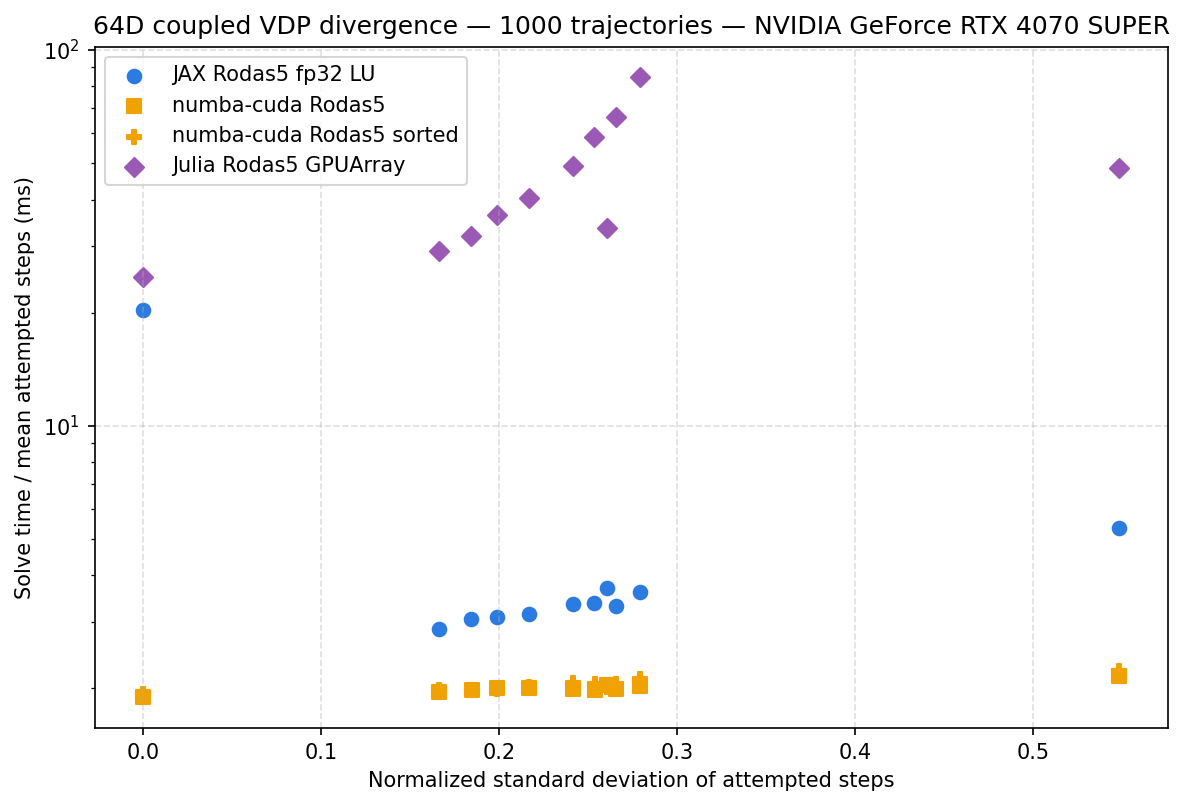
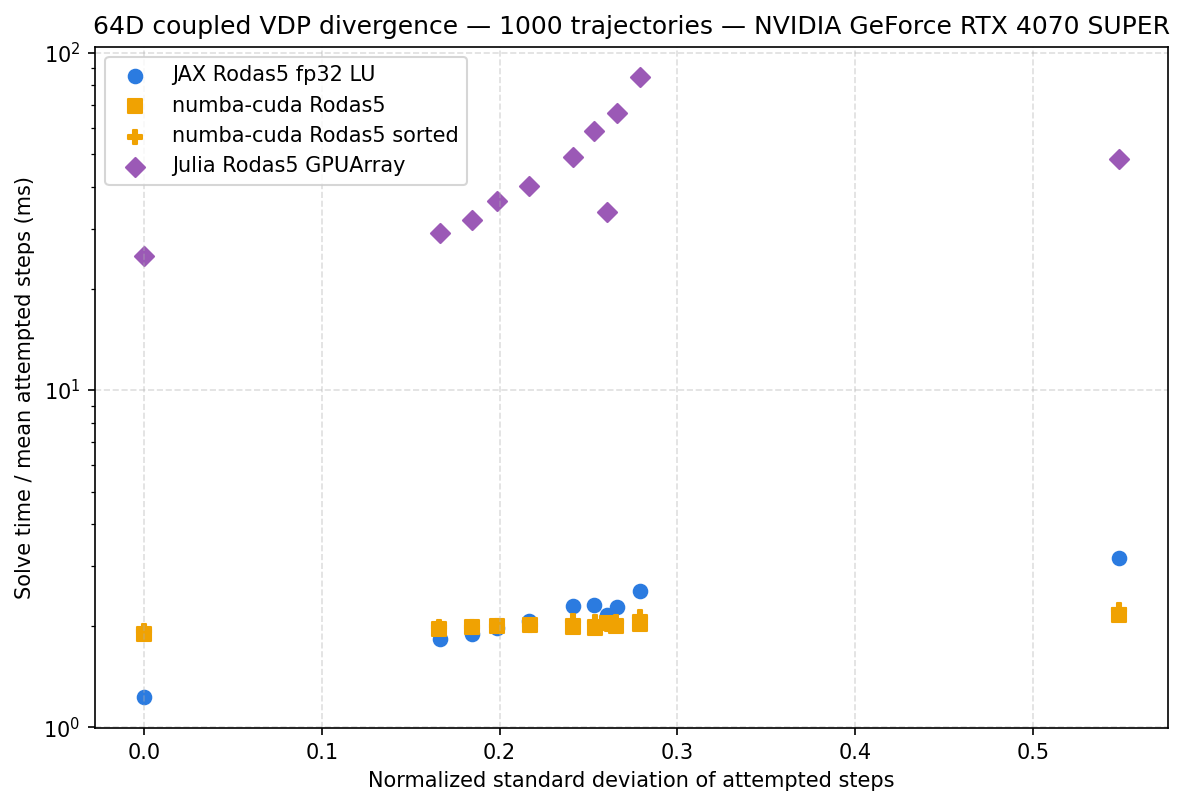
Fix recompilation issue in script 6

diff --git a/scripts/6_rodas5_vdp_divergence/main.py b/scripts/6_rodas5_vdp_divergence/main.py
@@ -48,6 +48,8 @@ _SOLVER_KWARGS = {"first_step": 1e-4, "rtol": 1e-6, "atol": 1e-8}
 _SCRIPT_DIR = Path(__file__).resolve().parent
 _CACHE_PATH = _SCRIPT_DIR / "results.json"
 
+_ODE_FN, _ = coupled_vdp_lattice.make_system(_N_OSC)
+
 _CSV_FIELDS = (
     "gpu",
     "solver_key",
@@ -171,9 +173,8 @@ def solve_with_stats(solver: SolverSpec, y0: np.ndarray, params: np.ndarray):
             **_SOLVER_KWARGS,
         )
 
-    ode_fn, _ = coupled_vdp_lattice.make_system(_N_OSC)
     return rodas5_solve(
-        ode_fn,
+        _ODE_FN,
         y0=jnp.asarray(y0, dtype=jnp.float64),
         t_span=_T_SPAN,
         params=jnp.asarray(params),
@@ -184,10 +185,9 @@ def solve_with_stats(solver: SolverSpec, y0: np.ndarray, params: np.ndarray):
 
 
 def solve_timing_only(solver: SolverSpec, y0: np.ndarray, params: np.ndarray):
-    ode_fn, _ = coupled_vdp_lattice.make_system(_N_OSC)
     if solver.key == "diffrax_kvaerno5":
         return diffrax_kvaerno5_solve(
-            ode_fn,
+            _ODE_FN,
             y0=jnp.asarray(y0, dtype=jnp.float64),
             t_span=_T_SPAN,
             params=jnp.asarray(params),
@@ -324,7 +324,27 @@ def collect_row(
     return row
 
 
+def _jax_warmup() -> None:
+    y0, params = make_data(_DIVERGENCES[0])
+    jy0 = jnp.asarray(y0, dtype=jnp.float64)
+    jparams = jnp.asarray(params)
+    for _ in range(2):
+        result = rodas5_solve(
+            _ODE_FN,
+            y0=jy0,
+            t_span=_T_SPAN,
+            params=jparams,
+            lu_precision="fp32",
+            return_stats=True,
+            **_SOLVER_KWARGS,
+        )
+        jax.block_until_ready(result)
+
+
 def run_benchmarks(gpu_name: str, cache: dict) -> list[dict]:
+    print("Warming up JAX solver...", end=" ", flush=True)
+    _jax_warmup()
+    print("done.", flush=True)
     gpu_cache = cache.setdefault(gpu_name, {})
     rows: list[dict] = []
     for solver in _SOLVERS:
